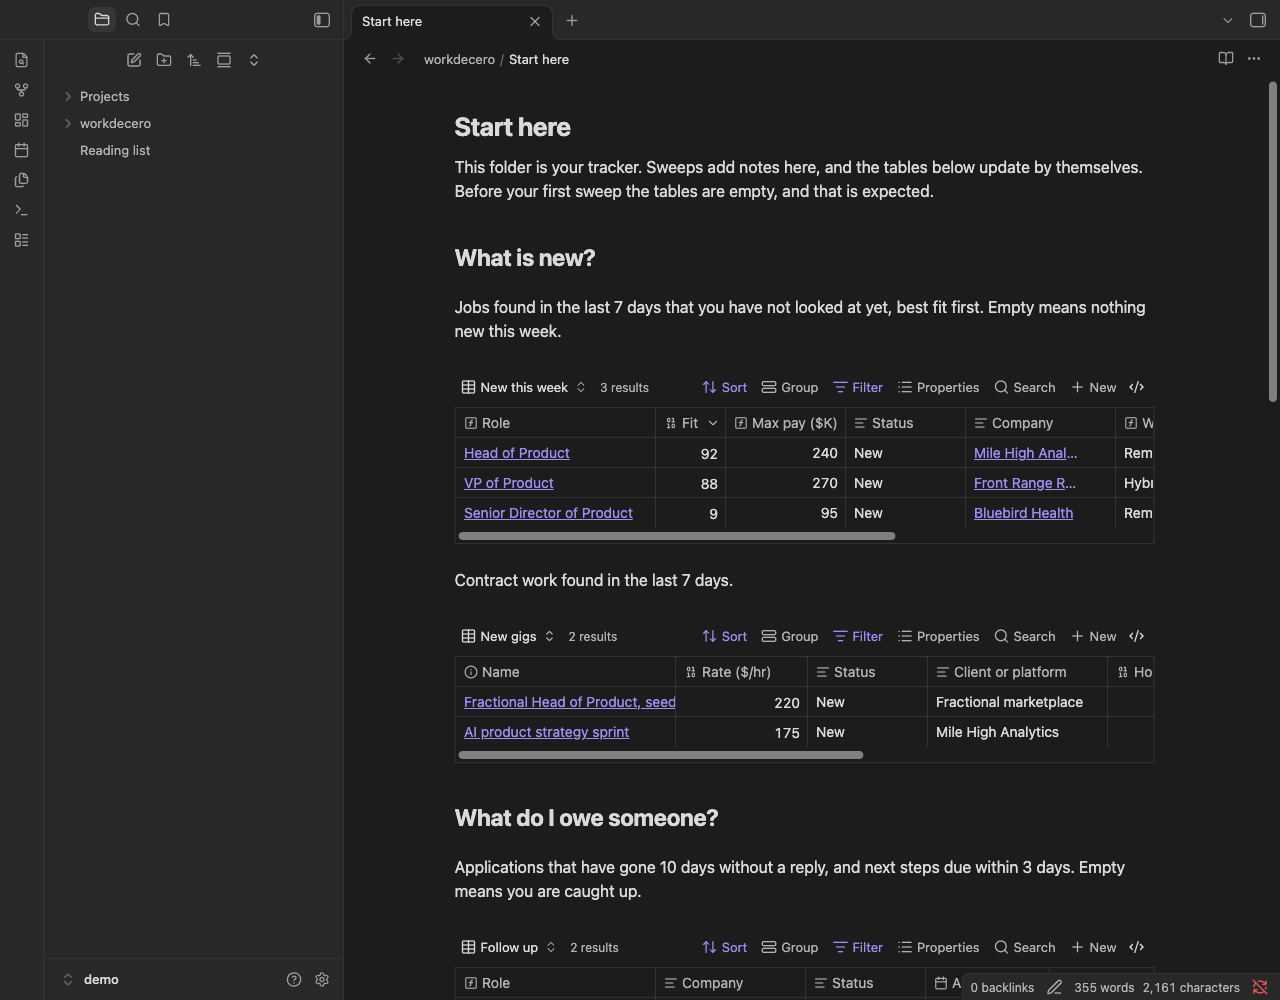
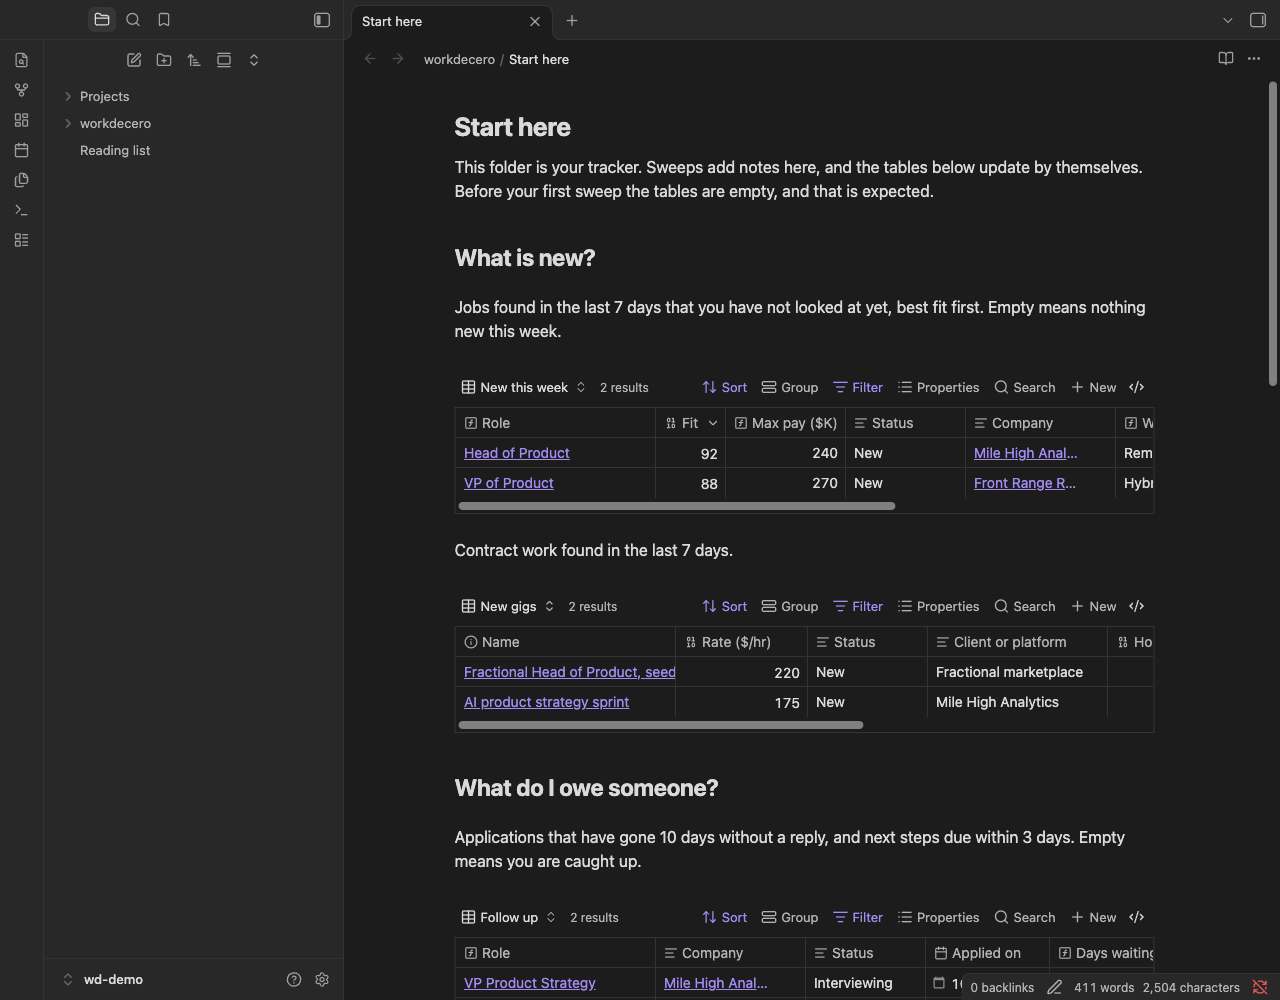
Version 1.0.0: docs and code review before release
Docs: python3 check before install and what a missing python3 looks like,
Obsidian 1.9 or newer for Bases, Team and Enterprise plans, update from a
terminal, the troubleshooting entry that still assumed a private repository,
what the backups and a cut-off setup keep, full setting names in setup,
and the engine module table.

Code: the hook script now counts as shipped for the version check, CI
accepts any GitHub handle with its own noreply address so outside pull
requests can pass, the release audit no longer reads as pre-release, and
four unused definitions and an importer docstring are gone.

The Start here screenshot is re-shot from the current demo vault (the near
miss no longer shows among new fits). Twelve screenshots nothing linked to
are removed.

diff --git a/dev/release_audit.py b/dev/release_audit.py
@@ -1,7 +1,7 @@
 #!/usr/bin/env python3
 """Release audit: look for private names and personal data in everything a public repository would show.
 
-Run this before the repository is made public. It only reads. It never
+Run this before a repository is made public, and before each release. It only reads. It never
 pushes, edits, comments, closes or deletes anything, on GitHub or locally.
 It makes one throwaway mirror clone in a temporary folder to read from.
 
@@ -373,8 +373,8 @@ def actions_runs(audit, owner, name):
     total = runs.get("total_count") or 0
     audit.count("Actions runs (logs not read)", total)
     if total:
-        audit.notes.append("There are %d Actions runs. Their logs, summaries and artifacts become readable by anyone "
-                           "when the repository is public. This audit does not read them. Delete the runs, or read "
+        audit.notes.append("There are %d Actions runs. Their logs, summaries and artifacts are readable by anyone "
+                           "in a public repository. This audit does not read them. Delete the runs, or read "
                            "every log, before release." % total)
 
 
@@ -434,9 +434,9 @@ CANNOT_SEE = (
     "to anyone who has its id, until it is garbage-collected. Only GitHub Support can remove one for certain. A "
     "fresh repository pushed from clean history carries none of them.",
     "Events older than GitHub keeps (about 90 days, at most 300 events).",
-    "Actions: workflow run logs, job summaries, artifacts and caches. They are counted, not read. They become "
-    "readable when the repository is public.",
-    "Forks and clones made while the repository was private, and anything already copied out of it.",
+    "Actions: workflow run logs, job summaries, artifacts and caches. They are counted, not read. In a public "
+    "repository anyone can read them.",
+    "Forks and clones others have made, and anything already copied out of the repository.",
     "Wiki pages, Discussions, Projects, and security advisories.",
     "Pictures and other binary files: they are copied out for a check by eye, not read. That includes text inside "
     "images, and data inside files such as spreadsheets or PDFs.",
@@ -512,7 +512,7 @@ def repo_from_remote(cwd):
 
 
 def main(argv=None):
-    parser = argparse.ArgumentParser(description="Read-only audit before a repository is made public.")
+    parser = argparse.ArgumentParser(description="Read-only audit of everything a public repository shows.")
     parser.add_argument("--repo", help="owner/name on GitHub (default: this checkout's origin)")
     parser.add_argument("--local", action="store_true", help="only this checkout's own history, no network")
     parser.add_argument("--style", action="store_true", help="also report long dashes")

diff --git a/dev/check_authors.py b/dev/check_authors.py
@@ -2,8 +2,8 @@
 """Fail when a commit carries an identity that must not become public.
 
 Commit author and committer names are public history. Every commit in this
-repository must be made under an allowed handle with a GitHub noreply
-address. A violation is reported by commit hash only, so the offending name
+repository must be made under a GitHub handle with that handle's own
+noreply address, so no real name or personal email lands in the history. A violation is reported by commit hash only, so the offending name
 never reaches a log.
 
 Usage: check_authors.py [REVISION_RANGE]   (default: HEAD, the whole history)
@@ -14,7 +14,6 @@ import re
 import subprocess
 import sys
 
-ALLOWED_HANDLES = ("madecero",)
 HANDLE_EMAIL_RE = re.compile(r"^(?:\d+\+)?([A-Za-z0-9-]+)@users\.noreply\.github\.com$")
 # GitHub commits rebase merges and web edits under its own identity.
 GITHUB_COMMITTER = ("GitHub", "noreply@github.com")
@@ -24,7 +23,7 @@ def identity_allowed(name, email, allow_github=False):
     if allow_github and (name, email) == GITHUB_COMMITTER:
         return True
     match = HANDLE_EMAIL_RE.match(email or "")
-    return bool(match) and name in ALLOWED_HANDLES and match.group(1) == name
+    return bool(match) and bool(name) and match.group(1).lower() == name.lower()
 
 
 def violations(records):

diff --git a/tests/test_version_bump.py b/tests/test_version_bump.py
@@ -7,10 +7,10 @@ import check_version_bump as bump
 class VersionBump(unittest.TestCase):
     def test_shipped_paths(self):
         for path in (".claude-plugin/plugin.json", "skills/setup/SKILL.md", "engine/x.py",
-                     "trackers/vault.py", "hooks/hooks.json"):
+                     "trackers/vault.py", "hooks/hooks.json", "hooks/allow_helper.py"):
             self.assertTrue(bump.is_shipped(path), path)
         for path in ("README.md", "tests/test_x.py", ".github/workflows/ci.yml", "dev/leak_guard.py",
-                     "examples/profiles/a.yaml", "hooks/pre-commit", "CONTRIBUTING.md"):
+                     "examples/profiles/a.yaml", "dev/git-hooks/pre-commit", "CONTRIBUTING.md"):
             self.assertFalse(bump.is_shipped(path), path)
 
     def test_docs_only_change_needs_no_bump(self):

diff --git a/tests/test_check_authors.py b/tests/test_check_authors.py
@@ -29,8 +29,10 @@ class Authors(unittest.TestCase):
     def test_real_email_is_rejected(self):
         self.assertEqual(ca.violations([record(author=REAL_EMAIL)]), [("a" * 40, "author")])
 
-    def test_handle_must_match_its_email_and_be_allowed(self):
-        self.assertEqual(len(ca.violations([record(author=OTHER_HANDLE)])), 1)
+    def test_any_handle_with_its_own_noreply_address_is_allowed(self):
+        self.assertEqual(ca.violations([record(author=OTHER_HANDLE, committer=OTHER_HANDLE)]), [])
+
+    def test_handle_must_match_its_email(self):
         mismatch = ("madecero", "9+someoneelse@users.noreply.github.com")
         self.assertEqual(len(ca.violations([record(author=mismatch)])), 1)
 

diff --git a/trackers/vault.py b/trackers/vault.py
@@ -9,9 +9,7 @@ Promises it keeps:
     It never writes to .obsidian or anywhere else.
   * A note's body belongs to the user. So do any properties the user added.
     A write changes only the wd_ properties a sweep owns and the one block
-    between the workdecero markers. The one addition to a body is the
-    person's own text from a tracker they asked to import, added once under
-    a heading and never rewritten.
+    between the workdecero markers.
   * A property marked SEED or USER in the model is written when the note is
     created and then left alone, so a status changed in Obsidian stays changed.
   * Every write is atomic (write a temp file, then rename), and the previous

diff --git a/dev/check_version_bump.py b/dev/check_version_bump.py
@@ -19,14 +19,13 @@ MANIFEST = ".claude-plugin/plugin.json"
 
 # Paths that end up running on a user's machine. Docs, tests, CI, examples
 # and developer tooling do not need a bump.
-SHIPPED_PREFIXES = (".claude-plugin/", "skills/", "engine/", "trackers/", "commands/", "agents/", "bin/")
-SHIPPED_FILES = ("hooks/hooks.json",)
+SHIPPED_PREFIXES = (".claude-plugin/", "skills/", "engine/", "trackers/", "hooks/", "commands/", "agents/", "bin/")
 
 VERSION_RE = re.compile(r"^(\d+)\.(\d+)\.(\d+)$")
 
 
 def is_shipped(path):
-    return path.startswith(SHIPPED_PREFIXES) or path in SHIPPED_FILES
+    return path.startswith(SHIPPED_PREFIXES)
 
 
 def parse_version(text):

diff --git a/engine/scoring.py b/engine/scoring.py
@@ -51,7 +51,6 @@ PART_LABELS = {"fit": "background", "level": "level", "industry": "industry", "l
 PENALTY_PAY_START_BELOW_FLOOR = 6
 PENALTY_UNVERIFIED_LINK = 3
 PENALTY_FLAGGED = 10
-PENALTY_ONSITE_OUTSIDE_AREA = 4      # kept for older notes: such a role is now left out
 PENALTY_MISSING_CREDENTIAL = 10
 NEAR_MISS_BELOW = 20          # a background fit under this, out of 40, is a near miss
 PENALTY_HOURS_OUTSIDE_RANGE = 4

diff --git a/engine/liveness.py b/engine/liveness.py
@@ -100,9 +100,6 @@ class Result(object):
     def suspect(self):
         return self.state == UNKNOWN and bool(self.weak_signals)
 
-    def as_dict(self):
-        return {"state": self.state, "evidence": self.evidence, "source": self.source, "suspect": self.suspect}
-
     def __repr__(self):
         return "Result(%s, %r)" % (self.state, self.evidence)
 

diff --git a/engine/wdprofile.py b/engine/wdprofile.py
@@ -218,10 +218,6 @@ def normalize_pasted(text):
     return text.translate(_PASTED)
 
 
-def _guess_message(value, guess):
-    return "Did you mean %s?" % guess if guess != value else "Check the number."
-
-
 def warnings(profile, today=None):
     """Things that are allowed but look like mistakes. They never block a sweep."""
     found = []

diff --git a/engine/model.py b/engine/model.py
@@ -344,5 +344,3 @@ TYPES = [JOB, CONTRACT, CHANNEL, EVENT, GROUP, PERSON, COMPANY, DIGEST]
 BY_NAME = dict((note_type.name, note_type) for note_type in TYPES)
 
 NOT_CONNECTED = "Not connected"
-RELATIONSHIPS = ["1st", "2nd", NOT_CONNECTED]
-WORK_MODES = ["Remote", "Hybrid", "Onsite"]

diff --git a/README.md b/README.md
@@ -29,9 +29,9 @@ Nothing was applied for, sent or posted.
 
 You need three things.
 
-* **Claude Code on a paid plan.** Claude Code comes with the paid Claude plans (Pro and Max). workdecero has a **Lite** mode sized for a Pro plan and a **Full** mode that searches wider and suits a Max plan.
-* **Obsidian.** A free notes app, from obsidian.md. Install it, open it once and create a vault (a vault is just a folder). Your trackers will live there as ordinary notes.
-* **python3.** A small helper program. On a Mac it is very likely already there. On a brand new Mac, macOS shows a window offering to install the "Command Line Developer Tools" the first time it is needed. Click **Install** and wait a few minutes.
+* **Claude Code on a paid plan.** Claude Code comes with the paid Claude plans (Pro, Max, Team and Enterprise). workdecero has a **Lite** mode sized for a Pro plan and a **Full** mode that searches wider and suits a Max plan.
+* **Obsidian.** A free notes app, from obsidian.md. Use version 1.9 or newer, which has Bases, the feature that draws your tracker tables. Install it, open it once and create a vault (a vault is just a folder). Your trackers will live there as ordinary notes.
+* **python3, version 3.9 or newer.** A small helper program. Before you install, open Terminal and type `python3 --version`. On a Mac it very likely prints a version. On a brand new Mac it opens a window offering to install the "Command Line Developer Tools" instead. Click **Install**, wait a few minutes, and type it again until it prints a version. workdecero checks each message you send with python3, so until python3 is there Claude Code shows a hook error on every message.
 
 I built and tested this on macOS. It should work on Linux, which I have not tested. Windows is not supported yet.
 
@@ -134,7 +134,7 @@ All off until you turn them on with `/workdecero:setup`.
 
 ## Update and uninstall
 
-**Update.** In Claude Code, type `/plugin`, open the **Marketplaces** tab, choose `workdecero`, and choose **Update marketplace**. The new version is used from your next session. To have it update by itself, choose **Enable auto-update** in the same place. It is off by default.
+**Update.** In Claude Code, type `/plugin`, open the **Marketplaces** tab, choose `workdecero`, and choose **Update marketplace**. The new version is used from your next session. To have it update by itself, choose **Enable auto-update** in the same place. It is off by default. From a terminal: `claude plugin marketplace update workdecero`, then `claude plugin update workdecero@workdecero`, then start a new session.
 
 **Uninstall.** `/plugin uninstall workdecero@workdecero` opens the plugin's page, where you choose Uninstall. From a terminal: `claude plugin uninstall workdecero@workdecero`, then `claude plugin marketplace remove workdecero`.
 

diff --git a/docs/privacy.md b/docs/privacy.md
@@ -12,10 +12,10 @@
 
 | What | Where | Notes |
 | --- | --- | --- |
-| Your profile, your local map and backups | `~/.config/workdecero/` | `profile.yaml`, `sources.yaml` and a `backups` folder. Readable by you alone. Updates and uninstalling do not touch them. |
+| Your profile, your local map and backups | `~/.config/workdecero/` | `profile.yaml`, `sources.yaml` and a `backups` folder holding earlier versions of your profile and of your tracker notes (the last 30 runs). Readable by you alone. Updates and uninstalling do not touch them. |
 | Your trackers | The `workdecero` folder in your Obsidian vault | Plain notes that you own: jobs, contracts, channels, groups, events, people, companies and digests. |
 | Spreadsheet snapshot, only if you turn it on | `workdecero snapshot.xlsx` in that same folder | A read-only picture of your trackers, rebuilt after every sweep. Anything typed into it is lost. Readable by you alone. |
-| Temporary working files | `~/.cache/workdecero/` | Exist only while setup or a sweep is running, in a folder only you can open, and are deleted when it ends. During setup they hold your answers. During a sweep they hold public postings. |
+| Temporary working files | `~/.cache/workdecero/` | Exist while setup or a sweep is running, in a folder only you can open, and are deleted when it ends. During setup they hold your answers. A setup that was cut off keeps its answers there for at most a day, so you can pick it up. During a sweep they hold public postings. |
 | Whether browser use is on | `~/.config/workdecero/flags.json` | One line, yes or no, kept in step with your profile. |
 | Which conversations started a workdecero skill | `~/.cache/workdecero-sessions/` | One empty file per conversation, named by its id, in a folder only you can open. Removed after a day. Nothing about you or the conversation is in it. |
 | A small count of LinkedIn pages viewed, only if you turn that connection on | `~/.config/workdecero/usage.json` | Numbers per day for the last week. |
